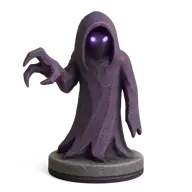
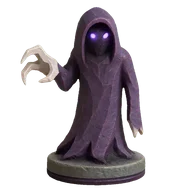
v1.90.30: Doppelritter höher, Schattenfürst und Schleicher mit Knochen-Akzent
- Doppelritter (62 → 84 %): aufgerichtet, die Köpfe nebeneinander, dazu 10 %
  über dem Sockel gestreckt (Besitzer 4.10.: „muss noch etwas höher sein“).
  Mehr gibt sein breiter Sockel ohne neues Bild nicht her.
- Schattenfürst: Hörner in Knochenfarbe; der Körper kam dabei dunkelgrau statt
  grauviolett zurück. Freigegeben 5.10. („sind gut“).
- Schleicher: die Klaue in Knochenfarbe. Freigegeben 5.10.

NICHT enthalten: Lanzenmeister, Richter, Hüter und Asra. Sie standen schon
lokal im Bau, weil ich „Mega, gerne weitermachen“ als Freigabe gelesen hatte –
der Besitzer wollte sie anders. Wieder herausgenommen, neue Vorschläge liegen
bei ihm. In CLAUDE.md steht jetzt: Freigabe heißt, die Figur wird beim Namen
genannt.

Zwei echte Fehler, die die Kette an jenem ersten Anlauf fing und die für den
nächsten gelten: zu schlanke Figuren drücken über die Höhenklammer 0,92 ihr
eigenes Band (Richter unter 90 % der Dame, Probe „queen-class“), und der
Sockelfuß des Doppelritters stand nach dem Strecken 3,5 px neben der
Bildmitte (A31) – gesetzt nach der breitesten Tellerzeile statt nach dem Fuß.
Der Doppelritter ist jetzt nach dem Fuß gesetzt.

Sockel einzeln gemessen (Teller 52, 35, 46), Farben nur für die drei
übernommen. Alte Bilder in archiv/ausgemustert/v1.90.30/.

Proben: 31 Suiten / 2693 Prüfungen (vorher 2692), Kette grün. Am echten Brett,
auf der Karte und im Blatt mit Band angesehen.

Claude-Session: https://claude.ai/code/session_018Tfvp769kvKv88eRG4ctPp

diff --git a/test_ui.jsx b/test_ui.jsx
@@ -249,6 +249,12 @@ const piece = (x = {}) => ({ id: 1, kind: "Q", color: "w", level: 1, abilities: 
       gm5.every((id) => monsterAmBrett(id) >= 85 && monsterAmBrett(id) <= 100.5 && SB5[id].boden === 555 && SB5[id].oben === 21)
       && SB5["boss-b08"].teller === 50 && SB5["boss-b18"].teller === 42
       && BOSSES.find((b) => b.id === "b14").accent === "#a855f7" && BOSSES.find((b) => b.id === "b08").accent === "#a3adb8");
+    /* v1.90.30 (Besitzer 5.10.): der Doppelritter 10 % hoeher ("muss noch
+       etwas hoeher sein"), Schattenfuerst mit Knochenhoernern und Schleicher
+       mit Knochenklaue ("sind gut"). */
+    ok(`v1.90.30: der Doppelritter steht bei 82-90 % der Offiziere (${monsterAmBrett("boss-b10").toFixed(1)}), Schattenfuerst und Schleicher tragen ihre neuen Bilder (Teller 35 und 46)`,
+      monsterAmBrett("boss-b10") >= 82 && monsterAmBrett("boss-b10") <= 90 && SB5["boss-b10"].teller === 52
+      && SB5["boss-b19"].teller === 35 && SB5["boss-b04"].teller === 46 && ["boss-b10", "boss-b19", "boss-b04"].every((id) => SB5[id].boden === 555 && SB5[id].oben === 21));
     const vier = ["boss-b15", "boss-b22", "boss-b05", "boss-b13"];
     ok(`v1.90.27: Sturmklaue, Zerreisser, Streuner und Brandstifter stehen bei 75-100 % der Offiziere (${vier.map((id) => id.slice(5) + " " + monsterAmBrett(id).toFixed(1)).join(", ")})`,
       vier.every((id) => monsterAmBrett(id) >= 75 && monsterAmBrett(id) <= 100.5 && SB5[id].boden === 555 && SB5[id].oben === 21));

diff --git a/CLAUDE.md b/CLAUDE.md
@@ -41,8 +41,8 @@ gambitrise.com zeigt darauf).
   pruefe-navigation, pruefe-textfluss, test_layout) lesen den Chromium-Pfad aus
   `PW_CHROMIUM`; ohne die Variable gilt der Pfad des Cloud-Containers. Lokal:
   `npx playwright install chromium` und `PW_CHROMIUM=<Pfad zur chrome-Datei>`.
-- `npm test` — volle Batterie. MUSS **31 Suiten / 2692 Prüfungen** melden
-  (Stand v1.90.29; der Runner stoppt nach der ersten roten Suite, also
+- `npm test` — volle Batterie. MUSS **31 Suiten / 2693 Prüfungen** melden
+  (Stand v1.90.30; der Runner stoppt nach der ersten roten Suite, also
   Suitenzahl prüfen, nicht nur Assertions! **Zählweise seit v1.90.18
   (Audit A74): JEDE Suite der Kette meldet eine RESULT-Zeile** — alle Zeilen
   `RESULT…: N passed` summieren; test_balance meldet zwei, darum stehen im
@@ -468,7 +468,7 @@ Quelltext lesen hat wiederholt getäuscht; gemessen wird am lebenden DOM
   Auswahl-Lichtspektakel.
 - Alles Optionale abschaltbar (Klang, Online).
 
-## Offene Baustellen (Stand v1.90.29, 4.10.2026)
+## Offene Baustellen (Stand v1.90.30, 5.10.2026)
 
 **Einstieg für jede neue Sitzung: `design/CHAT-EINSTIEG-2026-09-27.md`** (zehn
 Minuten, mit dem Startsatz für den Chat), dann **`design/UEBERGABE-2026-09-27.md`** — Stand,
@@ -497,8 +497,22 @@ Hier nur der Überblick:
   glatt und „komplett anderer Style“ zurück. Beim Einbau den `accent` in
   `bosses.js` an die neue Farbe angleichen — er färbt den Kartenhintergrund.
   **Großmeister (v1.90.29, freigegeben 4.10.):** Koloss, Kanonier, Blutmagd,
-  Seuchenkönig, Eisenfaust stehen jetzt bei 87–100 %. Offen: Doppelritter
-  (Vorschlag bei 84 %, wartet auf das Urteil). Was dabei teuer war: **mehrere
+  Seuchenkönig, Eisenfaust stehen jetzt bei 87–100 %. **v1.90.30 (5.10.):**
+  Doppelritter (84 %), Schattenfürst (Knochenhörner), Schleicher
+  (Knochenklaue). **In Arbeit, gezeigt, NICHT freigegeben:** Flüsterin (Kranz
+  violett glimmend), Asra (dunkelviolett, Risse), Lanzenmeister (neu als
+  schlanke Gestalt mit Umhang aus dem Attentäter heraus), Richter (Rüstung
+  andersfarbig, Augen türkis), Hüter (Ring leuchtend, Linien am Körper).
+  **„Mega, weitermachen“ ist KEINE Freigabe zum Einbau** — am 5.10. standen
+  vier Bilder schon lokal im Bau, als der Besitzer sie anders haben wollte.
+  Freigabe heißt: die Figur wird beim Namen genannt („X ist gut“).
+  Sollte nur ein TEIL einer Figur anders werden (Eisen, Rüstungsfarbe), malte
+  Kontext jedes Mal die GANZE Figur um: Teil-Akzente rechnen (Kasten über dem
+  Teil, Farbton setzen, weich blenden). **Kommt eine Figur ZU schlank zurück
+  (rx < ~128 bei 535 Höhe), drückt die Höhenklammer 0,92 auch ihr Band** unter
+  die Breite der Nachbarn (Probe „queen-class“) — über dem Sockel stauchen, bis
+  Höhe × 136/rx ≈ 561. Nach Strecken/Stauchen nach dem SOCKELFUSS mittig
+  setzen, nicht nach der breitesten Tellerzeile (A31). Was dabei teuer war: **mehrere
   Änderungen in EINEM Kontext-Auftrag zerstören den Stil** (Seuchenkönig, sechs
   Anläufe) — eine Änderung je Auftrag. **Für eine Gestalt „wie unsere Figuren“
   eine unserer FIGUREN als Eingang nehmen** (der Magier trug den Seuchenkönig;

diff --git a/CHANGELOG.md b/CHANGELOG.md
@@ -1,5 +1,28 @@
 # Changelog - Gambit Rise
 
+## 1.90.30 - Doppelritter hoeher, Schattenfuerst und Schleicher mit Knochen-Akzent
+
+- **Doppelritter** (62 -> 84 %): aufgerichtet, die Koepfe nebeneinander, dazu
+  10 % ueber dem Sockel gestreckt (Besitzer 4.10.: "muss noch etwas hoeher
+  sein"). Mehr gibt sein breiter Sockel ohne neues Bild nicht her.
+- **Schattenfuerst**: die Hoerner in Knochenfarbe; der Koerper kam dabei
+  dunkelgrau statt grauviolett zurueck. Freigegeben 5.10. ("sind gut").
+- **Schleicher**: die Klaue in Knochenfarbe. Freigegeben 5.10.
+
+Was NICHT in dieser Fassung ist: Lanzenmeister, Richter, Hueter und Asra
+standen schon lokal im Bau ("Mega, gerne weitermachen" als Freigabe gelesen),
+der Besitzer wollte sie anders - wieder herausgenommen, neue Vorschlaege
+liegen bei ihm. Die Kette hatte an ihnen zwei echte Fehler gefangen, die fuer
+den naechsten Anlauf gelten: zu schlanke Figuren druecken ueber die
+Hoehenklammer ihr eigenes Band (Richter unter 90 % der Dame), und der
+Sockelfuss des Doppelritters stand nach dem Strecken 3,5 px neben der Mitte
+(A31) - er ist jetzt nach dem Fuss gesetzt.
+
+Sockel einzeln gemessen (Teller 52, 35, 46), Farben nur fuer die drei
+uebernommen. Alte Bilder in archiv/ausgemustert/v1.90.30/.
+
+Proben: 31 Suiten / 2693 Pruefungen (vorher 2692).
+
 ## 1.90.29 - Fuenf Grossmeister in neuer Fassung: Koloss, Kanonier, Blutmagd, Seuchenkoenig, Eisenfaust
 
 Sie standen am Brett bei 67-73 % der Offiziere und trugen kaum Akzente. Alle

diff --git a/archiv/ausgemustert/v1.90.30/WARUM.md b/archiv/ausgemustert/v1.90.30/WARUM.md
@@ -1,0 +1,7 @@
+# Ausgemustert in v1.90.30
+
+## painted-boss-b10, b19, b04 (+ klein/)
+
+Doppelritter (stand bei 62 % der Offiziere, jetzt 84 %), Schattenfürst und
+Schleicher (einfarbig, jetzt mit Hörnern bzw. Klaue in Knochenfarbe). Vom
+Besitzer am 4./5.10.2026 freigegeben.
